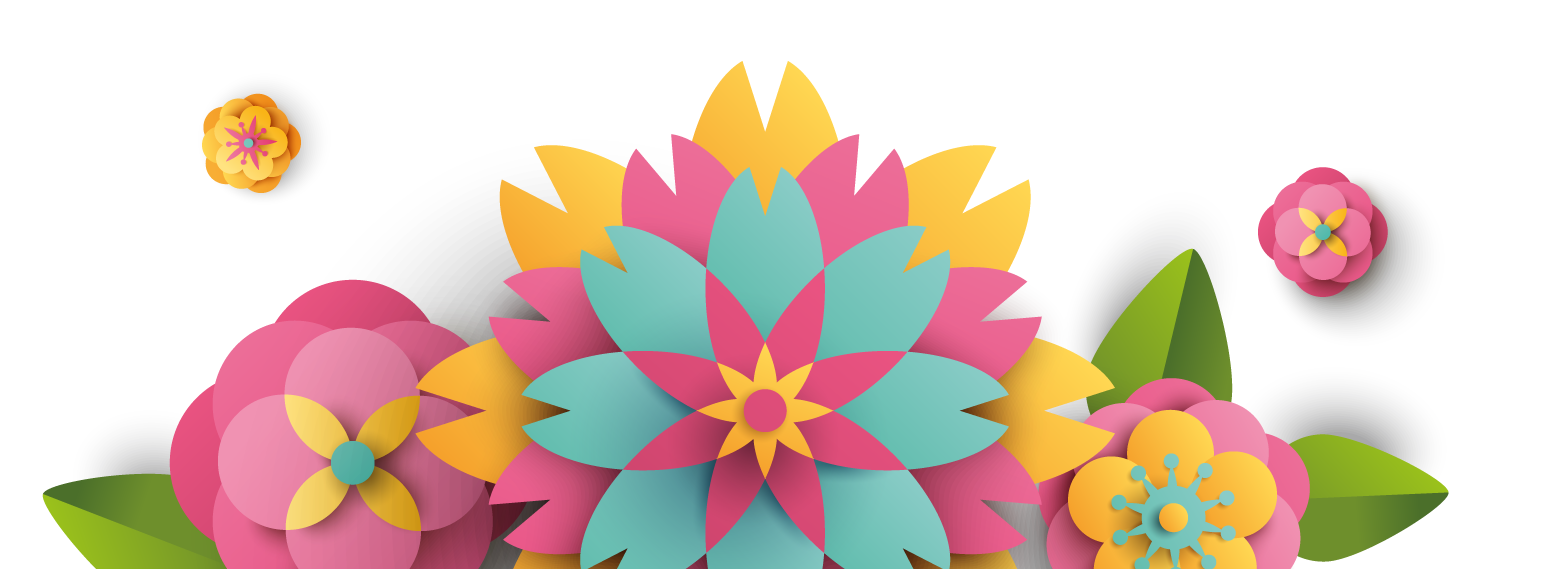
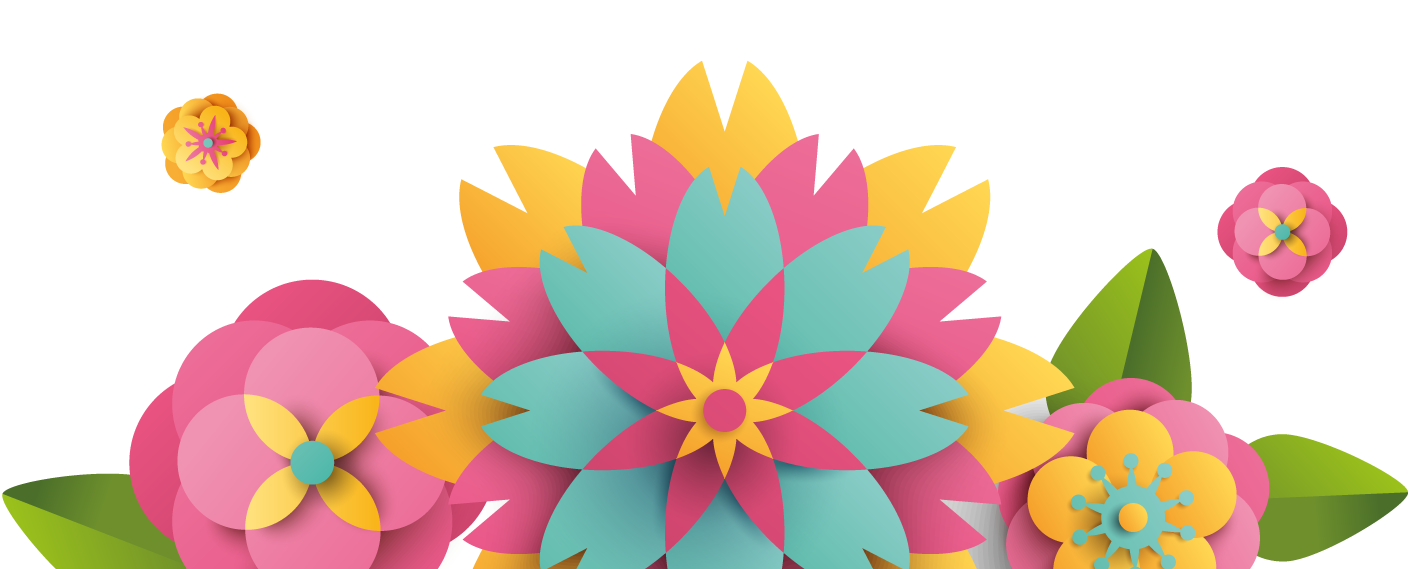
first commit

diff --git a/src/App.tsx b/src/App.tsx
@@ -37,26 +37,67 @@ function App() {
 
   function obtenerPalabraAleatoria() {
     const palabrasTrovas = [
-      "Amor",
-      "Luna",
-      "Beso",
-      "Sol",
-      "Flor",
-      "Sueño",
-      "Alma",
-      "Risa",
-      "Tiempo",
-      "Camino",
-      "Mar",
-      "Vida",
-      "Esperanza",
-      "Pasión",
-      "Silencio",
-      "Libertad",
-      "Serenidad",
-      "Melancolía",
-      "Destino",
-      "Amanecer"
+      "Bandeja paisa",
+      "Sancocho antioqueño",
+      "Arepa antioqueña",
+      "Ajiaco",
+      "Berraco",
+      "Tominejo",
+      "Panela",
+      "Café",
+      "Guayabo",
+      "Tradiciones folclóricas",
+      "Festival de la Trova",
+      "Festival de Danzas",
+      "Mariachi",
+      "Corrido antioqueño",
+      "Tejo",
+      "Rana",
+      "Fonda antioqueña",
+      "Viejoteca",
+      "Café de hoya",
+      "Ron Medellín",
+      "Pueblito paisa",
+      "Atardecer en Santa Elena",
+      "Desfile de Autos Clásicos",
+      "Caballo de Paso Fino",
+      "Feria Ganadera",
+      "Haciendas Cafeteras",
+      "Café de exportación",
+      "Cometas",
+      "Pueblito paisa",
+      "Trianón",
+      "Fondas Silleteras",
+      "La Macarena",
+      "Plaza de Flores",
+      "Danzas folclóricas",
+      "Trova antioqueña",
+      "Atuendo tradicional",
+      "Cimarrona",
+      "Pueblos Antioqueños",
+      "Recuca",
+      "Juegos tradicionales",
+      "Chapoleras",
+      "Sanjuanero",
+      "Marinera",
+      "Parque de las Luces",
+      "Comuna 13",
+      "Arte callejero",
+      "Grafitis",
+      "Palomas Blancas",
+      "Parque Arví",
+      "Catedral Metropolitana",
+      "Pueblos cercanos a Medellín",
+      "Parque Lleras",
+      "Ruta de las Flores",
+      "Feria de los Mercados Campesinos",
+      "Carrera 70",
+      "Estadio Atanasio Girardot",
+      "Carnaval de las Flores",
+      "Plaza de Cisneros",
+      "Gobernación de Antioquia",
+      "Feria de las Colonias",
+      "Desfile de Carros Antiguos"
     ];
 
     const indiceAleatorio = Math.floor(Math.random() * palabrasTrovas.length);

diff --git a/src/index.scss b/src/index.scss
@@ -22,7 +22,7 @@ body {
   text-align: center;
   .flores-superiores {
     max-width: 80vw;
-    max-height: 200px;
+    max-height: 150px;
   }
 }
 .container-flores-inferiores {
@@ -88,7 +88,8 @@ body {
     font-family: arial;
     font-style: italic;
     font-weight: 900;
-    font-size: 50px;
+    font-size: 40px;
+    text-align: center;
     color: #3A245F;
     margin: 0;
     margin-bottom: 15px;
